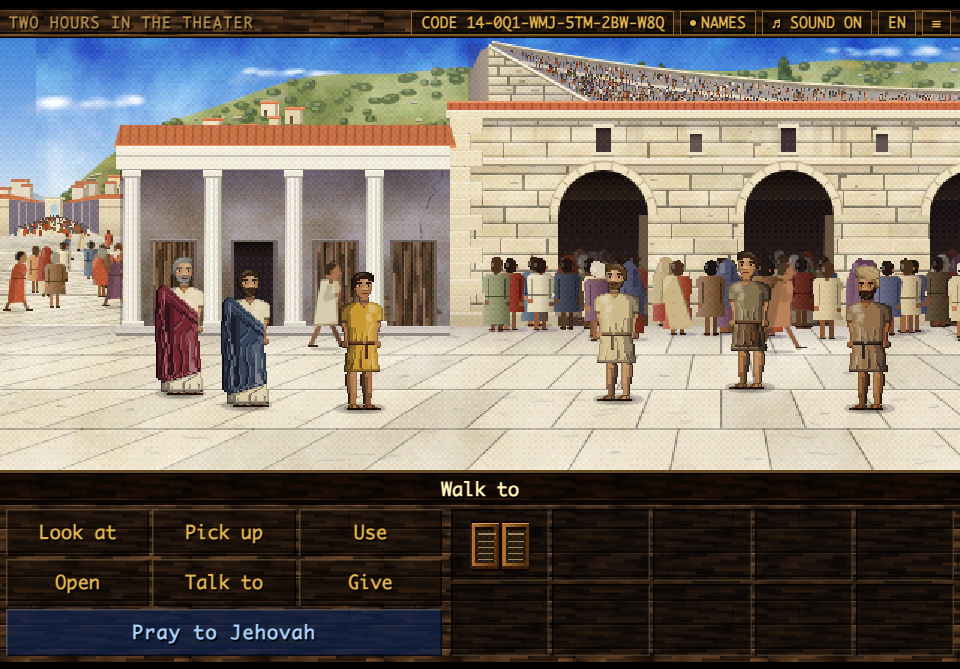
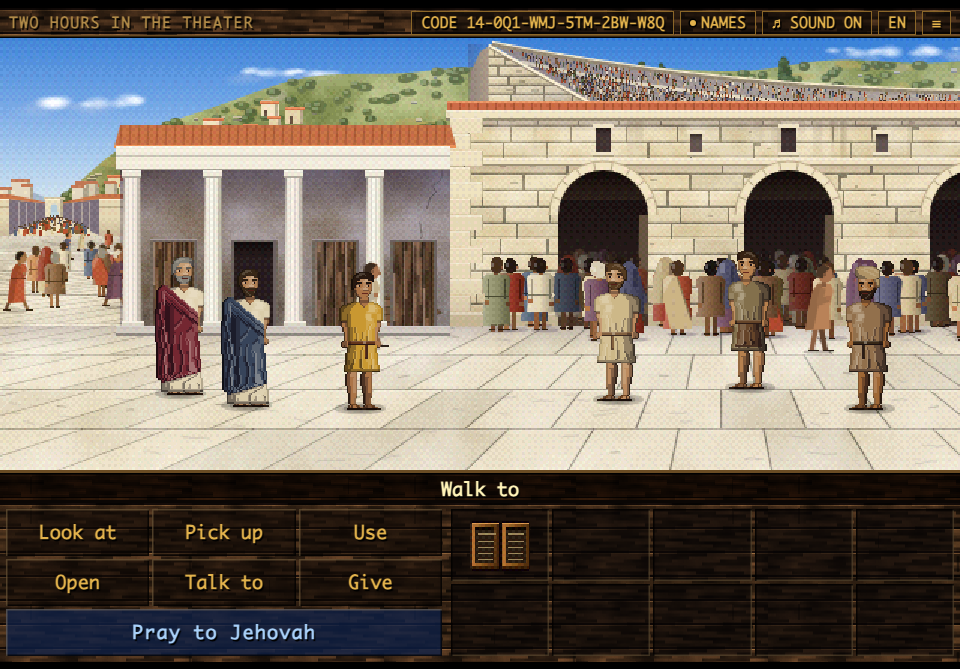
Chapter Fourteen: Aristokles's hand refined, colonnade hill mottle clipped, farewell disciple reply

diff --git a/levels/chapter14.js b/levels/chapter14.js
@@ -516,9 +516,11 @@ function blobColon(g,x,y,rx,ry,c){if(Math.min(rx,ry)<1.1&&Math.max(rx,ry)<2.4)R(
 function hillColon(g,r){const HZ=HZColon,yP=x=>x<14?HZ:9+49*Math.exp(-(x-14)/44)+1.8*Math.sin(x/31+1)+.9*Math.sin(x/9.3)+(x>300?.012*(x-300):0);
   ridge(g,0,90,HZ,x=>6+2*Math.sin(x/11+1)+1.4*Math.sin(x/4.3),['#94a8be','#acbac4']);
   ridge(g,0,90,HZ,x=>2.6+.8*Math.sin(x/6+2),['#a2b2be','#b6c0c4']);
-  ridge(g,12,480,HZ,x=>HZ-yP(x),['#9aa478','#86905e','#8a8a5c']);tex(g,'mott',.45,12,0,468,HZ,'overlay',1);
+  /* the hill's own outline: its mottle and its patches stay inside it, and never reach the sky */
+  const hill=()=>{g.beginPath();g.moveTo(12,HZ);for(let x=12;x<=480;x+=2)g.lineTo(x,yP(x));g.lineTo(480,HZ);g.closePath()};
+  ridge(g,12,480,HZ,x=>HZ-yP(x),['#9aa478','#86905e','#8a8a5c']);clipTo(g,hill,()=>tex(g,'mott',.45,12,0,468,HZ,'overlay',1));
   /* patches of dry grass and bare rock between the scrub */
-  clipTo(g,()=>{g.beginPath();g.moveTo(12,HZ);for(let x=12;x<=480;x+=2)g.lineTo(x,yP(x));g.lineTo(480,HZ);g.closePath()},()=>{for(let i=0;i<46;i++){const x=14+r()*466,y=yP(x)+1+r()*22;oval(g,x,y,2.4+r()*6,.8+r()*1.8,r()<.6?'rgba(184,164,106,.4)':'rgba(170,168,156,.42)')}});
+  clipTo(g,hill,()=>{for(let i=0;i<46;i++){const x=14+r()*466,y=yP(x)+1+r()*22;oval(g,x,y,2.4+r()*6,.8+r()*1.8,r()<.6?'rgba(184,164,106,.4)':'rgba(170,168,156,.42)')}});
   /* scrub in clumps and grey rock, lit from the left; the higher, the hazier */
   for(let i=0;i<520;i++){const x=12+r()*468,y0=yP(x);if(y0>HZ-2)continue;const y=y0+.6+Math.pow(r(),1.4)*Math.min(30,HZ-y0-2),hz=clamp((y-4)/30,0,1);
     if(r()<.2){const w=1+r()*2.6;R(g,x,y,w,.6+r()*.6,mix('#c2b898','#b4b8b8',1-hz));R(g,x,y+.6,w,.5,mix('#6e6a56','#8a90a0',1-hz))}
@@ -1018,119 +1020,162 @@ function claySeal(g,kx,ky,sealed){const C='#94654e',r=rng(1411),blob=(cx,cy,rx,r
   if(!sealed){oval(g,kx-2,cy-1.6,2.4,1.1,tint(C,.4));R(g,kx-3,cy-2.2,1,.5,tint(C,.6));return}
   for(const[sx,sy,m]of[[kx-5.6,cy-2.2,0],[kx+1,cy-1.8,1]]){R(g,sx,sy+3.5,4,.5,tint(C,.24));R(g,sx,sy,4,3.5,tint(C,-.1));R(g,sx,sy,4,.5,tint(C,.3));R(g,sx,sy+.5,.5,3,tint(C,-.42));
     if(m)R(g,sx+1.5,sy+1.5,1,1,tint(C,-.36));else stroke(g,[sx+1.2,sy+2.8,sx+2.8,sy+1.2],tint(C,-.4),.5)}}
-/* handSeal: Aristokles's left hand, the back of it up, lying over the stone beside the tablet, the size a hand is beside it: it reaches in
-   from the front, out of the fold of his mantle, which is wrapped round his forearm, and the fingers point away from us. The fingers are
-   long and spread a little, the middle the longest, the fourth and the index finger a little shorter and the little finger the shortest,
-   so that their tips make an arc. Each finger is three bones long: it tapers from its knuckle, swells a little at each of its two
-   joints and narrows between them, and ends in a rounded pad. Its nail lies on top of the last bone, longer than it is wide, with a fold
-   of skin at its root, a pale free edge at the tip and the light along its left side. Over the middle joint the skin gathers in a few
-   short, soft wrinkles that bow towards the tip, fewer over the last joint; they stop short of the finger's edges, so that no line is
-   drawn across a finger, and the joints and the tips are a little redder than the rest. On the back of the hand the four knuckles stand
-   up, with a hollow between each two, and the tendons run from the wrist to them as low ridges. The thumb grows from the side of the
-   hand low down, near the wrist, about half as thick again as a finger, and runs out straight, about thirty degrees farther out than
-   the index finger, with a deep web between them that reaches down to the middle of the back of the hand; its tip comes about as far
-   as the index finger's knuckle. It lies turned on its side, as a thumb does beside a hand laid flat, so that its nail faces outward
-   and is seen at three quarters on its outer side at the tip, never on top as the fingers' nails are. On the fourth finger is his signet ring: a gold bezel a little wider than the finger, and set in it his
-   stone, a dark red carnelian about as large as the seal it leaves in the clay, with the slanting mark of that seal cut into it. The
-   hand and its fingers are one shape: nothing marks where a finger begins. The light comes from the left: the left side of each finger
-   is lit and its right side in shade, and the thumb's side of the hand and the wrist, by the mantle, are in shade; the hand throws a
-   soft shadow on the stone to the right. The hand is drawn in units of its own, about seven to a screen pixel, with the fingers
-   pointing up and the thumb to the right, and turned and scaled onto the screen by HANDSeal. */
-/* HANDSeal: where the hand is drawn: the screen point of the middle of its wrist (265, 430 in its units), the angle it is turned by,
-   the size of one of its units, and how much the slant of the view shortens what runs away from us */
-const HANDSeal=[287,119,-.73,.135,.8];
-function handSeal(g){const S='#c8966e',Lt=tint(S,.2),Hi=tint(S,.34),Dk=tint(S,-.24),Rd='#b4604a',Cr='#7c4434',N='#d0a08a',M='#7a2a3a',[px,py,A,Z,K]=HANDSeal;
-  g.save();g.translate(px,py);g.scale(1,K);g.rotate(A);g.scale(Z,Z);g.translate(-265,-430);
-  const nz=(x,y)=>{const l=Math.hypot(x,y);return[x/l,y/l]},turn=(d,a)=>[d[0]*Math.cos(a)-d[1]*Math.sin(a),d[0]*Math.sin(a)+d[1]*Math.cos(a)];
-  const eo=(x,y,rx,ry,rot,c)=>{g.beginPath();g.ellipse(x,y,rx,ry,rot,0,6.2832);g.fillStyle=c;g.fill()},bump=(k,c,s)=>Math.exp(-(((k-c)/s)**2));
-  /* a finger from its knuckle K, len long (a degrees from straight up) and w wide: its first bone runs straight (hid of it under the back
-     of the hand), the two outer ones bent by b at the middle joint kJ; kD is the last joint. at(k,s): the point k of the way along it,
-     s across it (to its right) */
-  const geo=(K,a,len,w,b,hid,tw)=>{tw=tw||.82;const d1=[Math.sin(a*Math.PI/180),-Math.cos(a*Math.PI/180)],d2=turn(d1,b),l1=hid+len*.5,L=l1+len*.5,kJ=l1/L,kD=kJ+(1-kJ)*.55,
-      B=[K[0]-d1[0]*hid,K[1]-d1[1]*hid],J=[B[0]+d1[0]*l1,B[1]+d1[1]*l1],n1=[-d1[1],d1[0]],n2=[-d2[1],d2[0]],
-      wd=k=>w*(1-(1-tw)*Math.min(1,k/.9))*(1+.07*bump(k,kJ,.045)+.05*bump(k,kD,.035)-.03*bump(k,(kJ+kD)/2,.05)+.03*bump(k,.95,.04)),
-      at=(k,s)=>{const t=clamp((k-kJ+.08)/.16,0,1),n=nz(n1[0]+(n2[0]-n1[0])*t,n1[1]+(n2[1]-n1[1])*t),p=k<kJ?[B[0]+d1[0]*k*L,B[1]+d1[1]*k*L]:[J[0]+d2[0]*(k-kJ)*L,J[1]+d2[1]*(k-kJ)*L];
-        return[p[0]+n[0]*s,p[1]+n[1]*s]};
-    return{K,L,kJ,kD,k0:hid/L,w,wd,at,e:wd(1)/2,ang:Math.atan2(d2[1],d2[0]),ang1:Math.atan2(d1[1],d1[0])}};
-  const outline=f=>{const{at,wd,L,e}=f,k1=1-e/L;g.moveTo(...at(0,wd(0)/2));for(let k=.03;k<k1;k+=.03)g.lineTo(...at(k,wd(k)/2));
-    g.lineTo(...at(k1,e));g.quadraticCurveTo(...at(1,e),...at(1,0));g.quadraticCurveTo(...at(1,-e),...at(k1,-e));for(let k=k1;k>0;k-=.03)g.lineTo(...at(k,-wd(k)/2));g.lineTo(...at(0,-wd(0)/2));g.closePath()};
-  /* a band along a finger, from k0 to k1, between the fractions a and b of its width, shaded along its length */
-  const band=(f,k0,k1,a,b,st)=>{const p=[],q=[];for(let k=k0;k<k1+.001;k+=Math.min(.03,k1-k0))p.push(...f.at(k,a*f.wd(k))),q.unshift(...f.at(k,b*f.wd(k)));
-    if(p.length<4)return;for(let i=0;i<q.length;i+=2)p.push(q[i],q[i+1]);poly(g,p);g.fillStyle=lg(g,...f.at(k0,0),...f.at(k1,0),st);g.fill()};
-  /* a rounded box in a frame of its own: centre (x, y), turned by a, l along and h across, its ends rounded by ra (back) and rb (front) */
-  const box=(x,y,a,l,h,ra,rb)=>{g.save();g.translate(x,y);g.rotate(a);const u=l/2,v=h/2;g.beginPath();g.moveTo(-u+ra,-v);g.lineTo(u-rb,-v);g.quadraticCurveTo(u,-v,u,-v+rb);
-    g.lineTo(u,v-rb);g.quadraticCurveTo(u,v,u-rb,v);g.lineTo(-u+ra,v);g.quadraticCurveTo(-u,v,-u,v-ra);g.lineTo(-u,-v+ra);g.quadraticCurveTo(-u,-v,-u+ra,-v);g.closePath();g.restore()};
-  /* the nail on the last bone: the fold of skin at its root, the nail, the shade on its right side, the light on its left, its free edge;
-     off puts it at that fraction of the width to the right, turned away and in the shade of that side, as the thumb's is */
-  const nail=(f,fl,fw,off)=>{const w=f.wd(f.kD+.02),l=w*(fl||.78),h=w*(fw||.6),o=off==null?-.03:off,kc=1-(f.e*(off==null?.32:.45)+l/2)/f.L,[x,y]=f.at(kc,w*o),a=f.ang;
-    const[cx,cy]=f.at(kc-l*.55/f.L,w*o);eo(cx,cy,h*.62,l*.16,a+Math.PI/2,rgba(Rd,.3));
-    box(x,y,a,l,h,h*.42,h*.5);g.fillStyle=off==null?N:mix(N,Dk,.25);g.fill();if(off!=null)return;
-    clipTo(g,()=>box(x,y,a,l,h,h*.42,h*.5),()=>{g.save();g.translate(x,y);g.rotate(a);
-      R(g,-l/2,h*.16,l,h*.4,rgba(tint(N,-.26),.6));R(g,-l/2,-h/2,l,h*.24,rgba('#ecd6ca',.5));R(g,l*.3,-h/2,l*.3,h,rgba('#e8d0c0',.3));
-      R(g,-l/2,-h/2,l*.18,h,rgba(Rd,.25));g.restore()})};
-  /* the soft wrinkles over a joint: n short arcs bowing towards the tip, span of the finger's width, a little left of its middle */
-  const wrinkles=(f,k,n,span,a)=>{for(let i=0;i<n;i++){const kk=k+(i-(n-1)/2)*7.5/f.L,w=f.wd(kk)*span*(i===(n-1)/2|0?1:.8),p=[];
-    for(let t=-1;t<=1.001;t+=.25)p.push(...f.at(kk+(1-t*t)*3.5/f.L,t*w/2-f.wd(kk)*.05));stroke(g,p,rgba(Cr,a),2.6)}};
-  /* the fingers: little, fourth, middle and index, each from its knuckle; and the thumb */
-  const FG=[geo([291,228],16,197,42,.06,24),geo([350,212],26,241,47,.05,24),geo([408,214],33,258,49,.05,24),geo([460,240],41,232,48,.07,24)],
-    TH=geo([447,405],72,158,66,0,44,.82);
-  /* the back of the hand, from the wrist (under the mantle) to the knuckles and the web of the thumb; it runs round the same way as the
-     fingers, so that where they overlap they add up and never cancel */
-  const back=()=>{g.moveTo(330,540);g.lineTo(340,486);g.quadraticCurveTo(400,490,448,444);g.lineTo(440,400);g.lineTo(437,378);g.quadraticCurveTo(452,320,484,256);
-    g.lineTo(462,228);g.lineTo(410,208);g.lineTo(352,202);g.lineTo(300,214);g.lineTo(268,232);g.quadraticCurveTo(240,320,236,420);g.lineTo(230,520);g.closePath()};
-  /* the webs of skin between neighbouring fingers, which reach about a third of the way up the shorter one: each is drawn the same way
-     round as the fingers, so that it adds to them */
-  const sgn=p=>{let a=0;for(let i=0;i<p.length;i+=2){const j=(i+2)%p.length;a+=p[i]*p[j+1]-p[j]*p[i+1]}return a},ref=sgn((()=>{const f=FG[0],p=[];for(const k of[0,.5,1])p.push(...f.at(k,f.wd(k)/2));for(const k of[1,.5,0])p.push(...f.at(k,-f.wd(k)/2));return p})());
-  const webs=FG.slice(0,3).map((a,i)=>{const b=FG[i+1],ka=(24+Math.min(a.L,b.L)*.26)/a.L,kb=(24+Math.min(a.L,b.L)*.26)/b.L,p1=a.at(ka,a.wd(ka)/2),p2=b.at(kb,-b.wd(kb)/2),
-      m=[(p1[0]+p2[0])/2,(p1[1]+p2[1])/2],lo=[(a.K[0]+b.K[0])/2,(a.K[1]+b.K[1])/2],c=[m[0]+(lo[0]-m[0])*.45,m[1]+(lo[1]-m[1])*.45],pts=[...a.at(.02,a.wd(0)/2),...p1];
-    for(let t=.25;t<1;t+=.25){const u=1-t;pts.push(u*u*p1[0]+2*u*t*c[0]+t*t*p2[0],u*u*p1[1]+2*u*t*c[1]+t*t*p2[1])}pts.push(...p2,...b.at(.02,-b.wd(0)/2),...lo);
-    if(Math.sign(sgn(pts))!==Math.sign(ref)){const r=[];for(let j=pts.length-2;j>=0;j-=2)r.push(pts[j],pts[j+1]);return r}return pts});
-  const hand=()=>{g.beginPath();back();outline(TH);for(const f of FG)outline(f);for(const w of webs){g.moveTo(w[0],w[1]);for(let j=2;j<w.length;j+=2)g.lineTo(w[j],w[j+1]);g.closePath()}};
-  /* the shadow of the hand on the stone, falling to the right: close and darker under its edge, softer farther out */
-  for(const[d,a]of[[3.4,.07],[2.2,.12],[1.2,.16]])comp(g,'multiply',1,()=>{const sx=d*.7,sy=d*.25/K;g.save();g.translate((sx*Math.cos(A)+sy*Math.sin(A))/Z,(sy*Math.cos(A)-sx*Math.sin(A))/Z);hand();g.fillStyle=rgba('#56526e',a);g.fill();g.restore()});
-  hand();g.fillStyle=S;g.fill();
-  clipTo(g,hand,()=>{
-    /* the light from the left; the thumb's side and the wrist by the mantle in shade */
-    g.fillStyle=lg(g,200,0,580,0,[rgba(Lt,.6),rgba(Lt,0),rgba(Dk,0),rgba(Dk,.5)]);g.fillRect(150,0,450,560);
-    g.fillStyle=lg(g,0,380,0,480,[rgba(Dk,0),rgba(Dk,.6)]);g.fillRect(150,380,450,160);
-    g.fillStyle=rg(g,330,300,90,[rgba(Lt,.5),rgba(Lt,0)]);g.fillRect(150,150,450,300);
-    /* the skin: a faint mottle, warmer towards the knuckles */
-    tex(g,'mott',.3,150,0,450,560,'overlay',3.3);
-    g.fillStyle=rg(g,380,250,150,[rgba(Rd,.16),rgba(Rd,0)]);g.fillRect(150,100,450,300);
-    /* the tendons, from the wrist to the knuckles: a low ridge, lit on its left, with the groove beside it in shade */
-    for(const f of FG){const[x,y]=f.K,w0=[268+(x-375)*.3,440],m=[(x+w0[0])/2+10,(y+w0[1])/2+6],k=[x+2,y+14];
-      stroke(g,[w0[0]+7,w0[1],m[0]+9,m[1],k[0]+9,k[1]],rgba(Dk,.07),8);stroke(g,[...w0,...m,...k],rgba(Hi,.11),8)}
-    /* the knuckles of the hand, each a little red, with a hollow between each two */
-    for(let i=0;i<3;i++){const a=FG[i].K,b=FG[i+1].K;eo((a[0]+b[0])/2,(a[1]+b[1])/2+16,10,16,0,rgba(Dk,.08))}
-    for(const f of FG){const[x,y]=f.at(f.k0-.02,-f.w*.05);eo(x,y,f.w*.46,f.w*.34,f.ang1,rgba(Rd,.09));eo(x-2,y,f.w*.3,f.w*.22,f.ang1,rgba(Hi,.18))}
-    /* each finger: the shade along its right side, deepening from the knuckle; the light along its left side; the swell of each joint,
-       lit, its wrinkles, and a little red; the tip a little redder and darker; the nail */
-    for(const f of FG){band(f,.1,1.05,.58,.22,[rgba(Dk,0),rgba(Dk,.15),rgba(Dk,.8),rgba(Dk,.85)]);
-      band(f,.12,.92,-.04,-.34,[rgba(Lt,0),rgba(Lt,.3),rgba(Lt,.8),rgba(Lt,.2)]);
-      band(f,.3,1.05,-.4,-.58,[rgba(Dk,0),rgba(Dk,.3)]);
-      for(const[k,s,r,n,sp,al]of[[f.kJ,.32,.38,3,.56,.34],[f.kD,.24,.28,2,.46,.24]]){const[jx,jy]=f.at(k-.02,-.1*f.w);eo(jx,jy,f.w*s,f.w*r,f.ang,rgba(Rd,.16));
-        eo(jx-2,jy,f.w*s*.62,f.w*r*.6,f.ang,rgba(Hi,.3));wrinkles(f,k,n,sp,al)}
-      band(f,.88,1.06,.6,-.6,[rgba(Rd,0),rgba(Rd,.24)]);band(f,.9,1.06,.6,-.6,[rgba(Dk,0),rgba(Dk,.2)]);nail(f)}
-    /* the thumb: lit along its top, in shade on its underside; its joint; its nail, turned away from us with the thumb, seen at three
-       quarters on its outer side at the tip */
-    band(TH,.05,1.05,.58,.2,[rgba(Dk,.2),rgba(Dk,.75),rgba(Dk,.75)]);band(TH,.2,.9,-.1,-.36,[rgba(Lt,0),rgba(Lt,.85),rgba(Lt,.85),rgba(Lt,0)]);
-    band(TH,.4,1.05,-.42,-.58,[rgba(Dk,0),rgba(Dk,.35)]);band(TH,.86,1.06,.6,-.6,[rgba(Rd,0),rgba(Rd,.24)]);
-    {const[jx,jy]=TH.at(TH.kJ+.04,-.1*TH.w);eo(jx,jy,TH.w*.3,TH.w*.34,TH.ang,rgba(Rd,.14));wrinkles(TH,TH.kJ+.05,2,.42,.22)}nail(TH,.72,.42,.2)});
-  /* the signet ring on the fourth finger, low on its first bone: its gold bezel a little wider than the finger, lying flat on top, and
-     the carnelian set in it with the slanting mark of Aristokles's seal cut into it */
-  {const f=FG[1],kr=f.k0+.5*(f.kJ-f.k0),[x,y]=f.at(kr,0),a=f.ang1,w=f.wd(kr)*1.16,l=40;
-    comp(g,'multiply',1,()=>{box(x+3,y+3,a,l+2,w+2,10,10);g.fillStyle=rgba(Dk,.6);g.fill()});
-    box(x,y,a,l,w,10,10);g.save();g.translate(x,y);g.rotate(a);g.fillStyle=lg(g,0,-w/2,0,w/2,['#f0d070','#cc9c34','#9a6c1a','#523408']);g.fill();g.restore();
-    g.save();g.translate(x,y);g.rotate(a);const sl=l-20,sh=w-24;
-    R(g,-sl/2-2,-sh/2-2,sl+4,sh+4,'#6a4a18');R(g,-sl/2,-sh/2,sl,sh,'#8a2e1e');R(g,-sl/2,-sh/2,sl,4,'#c4644a');R(g,-sl/2,-sh/2,4,sh,'#b0503a');
-    R(g,-sl/2,sh/2-4,sl,4,'#5a1a12');R(g,sl/2-4,-sh/2,4,sh,'#6a2016');R(g,-sl/2+4,-sh/2+4,6,5,'#eaa48a');
-    stroke(g,[-sl*.24,sh*.26,sl*.24,-sh*.26],'#4e140c',4);stroke(g,[-sl*.24+2,sh*.26+3,sl*.24+2,-sh*.26+3],'#b4553e',2);g.restore()}
-  /* the mantle, wrapped round the forearm: its hem round the wrist, and the folds running back along the arm */
-  const hem=[176,412,204,424,226,430,250,446,276,452,300,468,326,474,352,492,372,500],fw=[-.4,1],sl=[...hem,372-160,500+400,176-160,412+400];
-  poly(g,sl,M);
-  clipTo(g,()=>poly(g,sl),()=>{g.fillStyle=lg(g,176,412,372,500,[tint(M,.2),tint(M,.1),M,tint(M,-.3)]);g.fillRect(0,380,420,560);
-    for(const[t,c]of[[.12,tint(M,-.38)],[.3,tint(M,.3)],[.5,tint(M,-.3)],[.68,tint(M,.14)],[.86,tint(M,-.42)]]){const x=176+196*t+6,y=412+88*t+10;stroke(g,[x,y,x+fw[0]*120+8,y+fw[1]*120,x+fw[0]*300,y+fw[1]*300],rgba(c,.6),9)}});
-  stroke(g,hem,tint(M,.42),4);g.restore()}
+/* handSeal: Aristokles's left hand, the back of it up, lying on the stone beside the tablet, the size a hand is beside it: it reaches in
+   from the front-right, out of the fold of his mantle, which is draped round his forearm, and the fingers point away from us. The silhouette,
+   finger angles, narrow spacing (ring and middle close together, little and index softly apart), knuckle slope, dorsal tendons, deep curved
+   thumb web, and 3/4-turned thumbnail follow the maintainer's reference. Each finger tapers naturally from its knuckle through its two joints
+   to a rounded pad, with an almond nail, soft cuticle fold, pale free edge and delicate joint wrinkles that stop short of the edges. On the
+   fourth finger's first bone is his gold signet ring, curved round the finger with a cushion bezel and a dark red carnelian stone cut with
+   the slanting mark of his seal. Light comes from the front-left: left edges and the central dorsum catch warm light, right edges and the
+   interdigital hollows fall into shade, and the hand casts a soft shadow to the right on the marble. Drawn in the 800x534 reference frame
+   and turned and scaled onto the stone by HANDSeal. */
+/* HANDSeal: screen point of the wrist centre (238, 434 in reference units), rotation angle, scale, and vertical foreshortening */
+const HANDSeal=[293,119,-.84,.15,.88];
+function handSeal(g){const S='#d4a37c',Lt='#ebc6a4',Hi='#f7dec6',Dk='#8e573d',Sh='#623828',Rd='#c47058',Cr='#8c4e3c',N='#e3bda6',M='#7a2a3a',[px,py,A,Z,K]=HANDSeal;
+  g.save();g.translate(px,py);g.scale(1,K);g.rotate(A);g.scale(Z,Z);g.translate(-238,-434);
+  const eo=(x,y,rx,ry,rot,c)=>{g.beginPath();g.ellipse(x,y,rx,ry,rot,0,6.2832);g.fillStyle=c;g.fill()};
+  /* soft radial elliptical glow/shade (no hard ellipse edges on smooth skin planes) */
+  const soft=(x,y,rx,ry,rot,c,a)=>{g.save();g.translate(x,y);g.rotate(rot);g.scale(1,ry/rx);
+    g.fillStyle=rg(g,0,0,rx,[rgba(c,a),rgba(c,a*.45),rgba(c,0)]);g.beginPath();g.arc(0,0,rx,0,6.2832);g.fill();g.restore()};
+  /* smooth Catmull-Rom spline through flat [x,y,...] points */
+  const spline=(p,closed)=>{const n=p.length/2,P=i=>{i=closed?(i%n+n)%n:clamp(i,0,n-1);return[p[2*i],p[2*i+1]]};
+    g.beginPath();g.moveTo(p[0],p[1]);
+    for(let i=0;i<(closed?n:n-1);i++){const a=P(i-1),b=P(i),c=P(i+1),d=P(i+2);
+      g.bezierCurveTo(b[0]+(c[0]-a[0])/6,b[1]+(c[1]-a[1])/6,c[0]-(d[0]-b[0])/6,c[1]-(d[1]-b[1])/6,c[0],c[1])}
+    if(closed)g.closePath()};
+  const sline=(p,c,w)=>{spline(p,0);g.strokeStyle=c;g.lineWidth=w;g.lineCap='round';g.lineJoin='round';g.stroke()};
+  /* continuous outer silhouette of the left hand and wrist from the reference (clockwise from lower-left forearm) */
+  const OUT=[76,534,120,480,164,424,190,386,192,344,204,304,224,266,248,230,266,204,
+    284,174,301,146,320,118,338,96,351,86,363,89,368,102,356,126,338,152,320,182,307,208,
+    308,214,319,204,341,178,366,148,392,118,420,89,442,68,460,66,472,76,465,92,448,116,426,144,400,176,375,204,
+    372,210,383,204,408,174,434,140,458,108,485,76,500,65,514,70,517,85,502,110,480,144,456,180,430,216,
+    417,236,427,234,454,208,480,178,506,148,533,127,546,122,557,130,556,145,539,170,514,202,486,234,460,266,444,292,
+    436,326,436,355,443,367,456,365,482,345,514,326,545,315,563,318,570,329,560,346,538,365,508,385,476,408,
+    442,436,400,458,356,469,320,472,294,490,264,516,240,536];
+  /* finger axis helper along [K, PIP, DIP, Tip]: at(t,s) gives the point at fraction t (0..1) and offset s to its right,
+     with unit tangent and local width for cylindrical shading, joints, wrinkles and nails */
+  const mkF=(pts,w,nail,tend)=>{const seg=[];let tot=0;
+    for(let i=0;i<pts.length-1;i++){const dx=pts[i+1][0]-pts[i][0],dy=pts[i+1][1]-pts[i][1],l=Math.hypot(dx,dy);seg.push({a:pts[i],b:pts[i+1],dx:dx/l,dy:dy/l,l,t0:tot});tot+=l}
+    const at=(t,s)=>{const d=clamp(t,0,1)*tot;let q=seg[seg.length-1];for(const e of seg)if(d<=e.t0+e.l){q=e;break}
+      const u=(d-q.t0)/q.l,x=q.a[0]+(q.b[0]-q.a[0])*u,y=q.a[1]+(q.b[1]-q.a[1])*u,nx=-q.dy,ny=q.dx;return[x+nx*(s||0),y+ny*(s||0)]};
+    const wd=t=>w*(1-.2*clamp(t,0,1)),ang=t=>{const d=clamp(t,0,1)*tot;let q=seg[seg.length-1];for(const e of seg)if(d<=e.t0+e.l){q=e;break}return Math.atan2(q.dy,q.dx)};
+    return{pts,K:pts[0],PIP:pts[1],DIP:pts[2],Tip:pts[3],w,wd,at,ang,tP:seg[0].l/tot,tD:(seg[0].l+seg[1].l)/tot,nail,tend}};
+  const FG=[
+    mkF([[282,224],[318,158],[340,124],[358,96]],34,[350,102,10,7.5,-.92],[218,372,250,304,280,234]),
+    mkF([[332,220],[388,150],[426,110],[458,76]],38,[451,83,11.5,8.6,-.84],[238,384,286,308,330,228]),
+    mkF([[378,240],[442,158],[476,114],[505,77]],40,[498,84,12,9.2,-.90],[260,394,320,318,374,246]),
+    mkF([[424,268],[486,198],[518,162],[548,134]],39,[540,141,11.5,8.6,-.84],[282,400,352,334,420,272])],
+    TH=mkF([[426,396],[486,368],[528,344],[564,326]],46,null,null);
+  /* shaded longitudinal band along a finger between fractional widths a and b */
+  const band=(f,t0,t1,a,b,st)=>{const p=[],q=[];for(let i=0;i<=14;i++){const t=t0+(t1-t0)*i/14,w=f.wd(t);p.push(...f.at(t,a*w));q.unshift(...f.at(t,b*w))}
+    for(let i=0;i<q.length;i+=2)p.push(q[i],q[i+1]);poly(g,p);g.fillStyle=lg(g,...f.at(t0,0),...f.at(t1,0),st);g.fill()};
+  /* delicate curved skin wrinkles over a joint, stopping well inside the finger edges */
+  const wrinkles=(f,tc,n,span,al)=>{for(let i=0;i<n;i++){const tt=tc+(i-(n-1)/2)*.038,hw=f.wd(tt)*span*(i===(n-1)/2|0?.48:.36),p=[];
+    for(let s=-1;s<=1.001;s+=.25)p.push(...f.at(tt+(1-s*s)*.015,s*hw-f.wd(tt)*.03));sline(p,rgba(Cr,al),2)}};
+  /* almond fingernail set neatly inside the fingertip pad: soft rosy cuticle fold, warm translucent nail plate, gentle pale edge */
+  const nail=([cx,cy,rx,ry,rot])=>{g.save();g.translate(cx,cy);g.rotate(rot);
+    eo(-rx*.32,0,rx*.74,ry*1.08,0,rgba(Rd,.24));
+    g.beginPath();g.ellipse(0,0,rx,ry,0,0,6.2832);g.fillStyle=N;g.fill();
+    clipTo(g,()=>{g.beginPath();g.ellipse(0,0,rx,ry,0,0,6.2832)},()=>{
+      g.fillStyle=lg(g,0,-ry,0,ry,['#f2d8c6',N,tint(N,-.2)]);g.fillRect(-rx,-ry,rx*2,ry*2);
+      eo(rx*.58,0,rx*.46,ry*.9,0,rgba('#f6e4d2',.32));
+      eo(-rx*.66,0,rx*.44,ry*.82,0,rgba(Rd,.2))});
+    g.beginPath();g.ellipse(0,0,rx,ry,0,Math.PI*.45,Math.PI*1.55);g.strokeStyle=rgba(Cr,.26);g.lineWidth=1.4;g.stroke();g.restore()};
+  const handPath=()=>spline(OUT,1);
+  /* soft shadow cast onto the marble to the right, plus a gentle contact occlusion under the edges */
+  comp(g,'multiply',1,()=>{g.save();g.translate(2,4);handPath();g.fillStyle=rgba('#4e4860',.13);g.fill();g.restore()});
+  for(const[d,a]of[[3.6,.07],[2.2,.11],[1.1,.16],[.45,.14]])comp(g,'multiply',1,()=>{
+    const sx=d*.72,sy=d*.34/K;g.save();g.translate((sx*Math.cos(A)+sy*Math.sin(A))/Z,(sy*Math.cos(A)-sx*Math.sin(A))/Z);
+    handPath();g.fillStyle=rgba('#504c68',a);g.fill();g.restore()});
+  handPath();g.fillStyle=S;g.fill();
+  clipTo(g,handPath,()=>{
+    /* main warm front-left light across the hand, with soft warm-umber shading along the far ulnar edge, right flank and wrist */
+    g.fillStyle=lg(g,210,150,480,470,[rgba(Lt,.5),rgba(Lt,.14),rgba(Dk,0),rgba(Dk,.38)]);g.fillRect(60,50,540,500);
+    g.fillStyle=lg(g,184,270,316,320,[rgba(Dk,.28),rgba(Dk,0)]);g.fillRect(160,180,200,260);
+    /* broad smooth sunlit central-radial dome on the back of the hand (soft radial gradients, no hard edges) */
+    soft(366,334,116,136,.58,Hi,.46);soft(404,298,82,90,.5,Lt,.36);soft(334,296,74,88,.5,Lt,.26);
+    /* subtle skin mottle and warm rosy flush across the knuckle ridge */
+    tex(g,'mott',.22,60,50,540,500,'overlay',3.2);
+    soft(368,246,142,66,.36,Rd,.22);
+    /* subtle, soft dorsal extensor tendons converging from all four knuckles toward the wrist (feathered two-pass strokes) */
+    for(let i=0;i<4;i++){const t=FG[i].tend,sh=[t[0]+9,t[1]+5,t[2]+10,t[3]+5,t[4]+8,t[5]+4],w0=i===0?12:i===3?13:15,al=i===0?.042:i===3?.054:.058;
+      sline(sh,rgba(Dk,al*.55),w0*1.6);sline(sh,rgba(Dk,al*.65),w0*.85);
+      sline(t,rgba(Hi,al*.55),w0*1.5);sline(t,rgba(Hi,al*.7),w0*.75)}
+    /* soft wrist/ulna modeling and slight hollow beside the index metacarpal; delicate thumb-web crease */
+    sline([184,386,216,356,244,320],rgba(Hi,.11),16);
+    soft(428,342,34,54,.2,Dk,.16);
+    sline([443,367,433,357,427,344],rgba(Cr,.26),2.1);
+    /* knuckles: soft rosy domes lit on the upper-left, with shallow hollows between neighbouring knuckles */
+    for(let i=0;i<3;i++){const a=FG[i].K,b=FG[i+1].K;soft((a[0]+b[0])/2-2,(a[1]+b[1])/2+10,16,22,.45,Dk,.14)}
+    for(const f of FG){const[x,y]=f.K;soft(x,y,26,20,.55,Rd,.18);soft(x-4,y-3,18,14,.55,Hi,.28)}
+    /* soft ambient occlusion in the finger webs */
+    for(const[wx,wy]of[[308,214],[372,210],[417,236]])soft(wx,wy,17,20,.5,Sh,.32);
+    /* each finger: bright warm top-left cylinder, clean right-edge shadow, subtle joint swells & wrinkles, rosy tip, almond nail */
+    for(const f of FG){
+      band(f,.06,1,.22,.64,[rgba(Dk,.12),rgba(Dk,.38),rgba(Dk,.48)]);
+      band(f,.06,.92,-.46,.04,[rgba(Lt,.22),rgba(Hi,.42),rgba(Lt,.22)]);
+      band(f,.14,.98,-.64,-.44,[rgba(Dk,.08),rgba(Dk,.18)]);
+      for(const[tc,rx,ry,n,sp,al]of[[f.tP,22,18,3,.48,.22],[f.tD,18,14,2,.4,.15]]){
+        const[jx,jy]=f.at(tc,-2);soft(jx,jy,rx,ry,f.ang(tc),Rd,.22);soft(jx-3,jy-2,rx*.7,ry*.62,f.ang(tc),Hi,.3);wrinkles(f,tc,n,sp,al)}
+      const[tx,ty]=f.Tip;soft(tx,ty,22,18,f.ang(1),Rd,.2);nail(f.nail)}
+    /* thumb: warm sunlit upper-left shaft, softly shaded lower/thenar edge, IP joint, and 3/4-profile thumbnail on its outer-right edge */
+    band(TH,.05,1,.2,.62,[rgba(Dk,.16),rgba(Dk,.44),rgba(Dk,.48)]);
+    band(TH,.1,.92,-.46,.04,[rgba(Lt,.24),rgba(Hi,.44),rgba(Lt,.22)]);
+    {const[jx,jy]=TH.DIP;soft(jx,jy,22,18,TH.ang(TH.tD),Rd,.18);wrinkles(TH,TH.tD,2,.38,.16)}
+    /* 3/4 thumbnail tucked along the outer-right tip edge, leaving warm sunlit thumb skin along the upper-left edge */
+    {const tn=[548,335,558,325,568,324,568,334,558,345,550,346];
+      sline([547,334,549,343,557,345],rgba(Rd,.34),4);
+      spline(tn,1);g.fillStyle=N;g.fill();
+      clipTo(g,()=>spline(tn,1),()=>{g.fillStyle=lg(g,548,324,568,344,['#f0d4c0',N,tint(N,-.22)]);g.fillRect(544,319,30,32);
+        eo(563,328,7,4.5,-.4,rgba('#f6e6d6',.34))});
+      sline([548,335,550,343,557,345],rgba(Cr,.28),1.4)}
+    /* soft shadow cast onto the wrist where it emerges from the draped mantle */
+    sline([156,412,188,426,222,446,256,464,294,484],rgba(Sh,.34),24);
+    sline([156,412,188,426,222,446,256,464,294,484],rgba(Sh,.26),12)});
+  /* Aristokles's gold signet ring on the fourth finger's proximal phalanx: curved hoop wrapping the cylinder of the finger,
+     oval cushion bezel on top, dark red carnelian intaglio stone cut with the single slanting mark of his seal */
+  {const f=FG[1],tc=f.tP*.56,[rx,ry]=f.at(tc,0),a=f.ang(tc),hw=f.wd(tc)*.53,bl=14,bw=hw*1.02;
+    /* tight contact shadow on the finger skin under/right of the gold hoop */
+    g.save();g.translate(rx,ry);g.rotate(a);
+    comp(g,'multiply',1,()=>{g.beginPath();g.ellipse(-2,4,bl*1.04,bw*1.06,0,0,6.2832);g.fillStyle=rgba(Sh,.44);g.fill()});
+    /* curved gold ring body: narrower where the hoop wraps the finger edges, swelling smoothly into the cushion bezel on top */
+    const hoop=()=>{g.beginPath();g.moveTo(-bl*.64,-bw);g.quadraticCurveTo(0,-bw*1.06,bl*.64,-bw);
+      g.quadraticCurveTo(bl*1.1,-bw*.4,bl*1.1,0);g.quadraticCurveTo(bl*1.1,bw*.4,bl*.64,bw);
+      g.quadraticCurveTo(0,bw*1.06,-bl*.64,bw);g.quadraticCurveTo(-bl*1.1,bw*.4,-bl*1.1,0);
+      g.quadraticCurveTo(-bl*1.1,-bw*.4,-bl*.64,-bw);g.closePath()};
+    hoop();g.fillStyle=lg(g,0,-bw,0,bw,[[0,'#c49430'],[.2,'#ffe894'],[.44,'#d8a638'],[.74,'#885814'],[.92,'#54340a'],[1,'#845a1e']]);g.fill();
+    /* crisp gold bezel rim highlight */
+    g.beginPath();g.ellipse(0,0,bl*.86,bw*.74,0,0,6.2832);g.strokeStyle=rgba('#fff2b8',.58);g.lineWidth=1.8;g.stroke();
+    /* recessed setting and cushion-oval dark red carnelian stone */
+    const sl=bl*.64,sh=bw*.56;
+    g.beginPath();g.ellipse(0,0,sl+2,sh+2,0,0,6.2832);g.fillStyle='#5c3a0e';g.fill();
+    g.beginPath();g.ellipse(0,0,sl,sh,0,0,6.2832);g.fillStyle=lg(g,-sl,-sh,sl,sh,['#c43e28','#8e2214','#52100a']);g.fill();
+    eo(-sl*.32,-sh*.32,sl*.38,sh*.32,-.3,rgba('#f4aa8e',.62));
+    /* single slanting intaglio seal mark matching Aristokles's impression in claySeal (no cross) */
+    sline([-sl*.42,sh*.36,sl*.42,-sh*.36],'#3e0c08',2.8);
+    sline([-sl*.36,sh*.44,sl*.48,-sh*.28],rgba('#d6684a',.65),1.3);
+    g.restore()}
+  /* Aristokles's draped crimson mantle round his forearm, snugly framing the wrist with smooth curved hem and soft wool folds */
+  {const hem=[156,422,184,430,220,448,256,466,288,486,294,496],fd=[-0.64,0.77];
+    const mSmooth=()=>{const sl=[...hem,274,520,294+fd[0]*240,496+fd[1]*240,148+fd[0]*240,426+fd[1]*240,136,448];spline(sl,1)};
+    comp(g,'multiply',.18,()=>{g.save();g.translate(14,10);mSmooth();g.fillStyle='#4a4460';g.fill();g.restore()});
+    mSmooth();g.fillStyle=M;g.fill();
+    clipTo(g,mSmooth,()=>{
+      /* cylindrical light across the wrapped mantle: lit left, deep crimson-plum right */
+      g.fillStyle=lg(g,136,416,300,506,[tint(M,.28),tint(M,.1),M,tint(M,-.38)]);g.fillRect(-40,380,380,320);
+      /* two soft, feathered diagonal wool drapery folds (wide soft halo + deeper crease, never hard stripes) */
+      for(const[p,c,w,al]of[
+        [[186,434,162,486,118,552,66,612],tint(M,-.48),44,.22],
+        [[186,434,162,486,118,552,66,612],tint(M,-.5),22,.24],
+        [[204,444,182,496,142,560,92,620],tint(M,.3),32,.2],
+        [[252,470,224,526,186,586,142,648],tint(M,-.48),48,.24],
+        [[252,470,224,526,186,586,142,648],tint(M,-.52),24,.26],
+        [[270,480,244,536,208,598,166,658],tint(M,.2),28,.16]])sline(p,rgba(c,al),w);
+      tex(g,'mott',.36,-40,380,380,320,'overlay',3.2);
+      /* soft rolled hem catchlight and subtle inner fold shade */
+      sline(hem.slice(0,-2),rgba(tint(M,.32),.44),6);
+      sline(hem.slice(0,-2).map((v,i)=>i%2?v+6:v-4),rgba(tint(M,-.44),.34),4.5)})}
+  g.restore()}
 
 /* ---------- the lane map ---------- */
 /* The city is laid out in its own units, from the city wall (x 0) to the theater's hill (x 768), with the harbor west of the wall
@@ -1518,8 +1563,9 @@ const BYE=[{k:'b1',a:DA,lines:[[DA,'our_door_is_open_to_you'],[P,'today_you_kept
   {k:'b2',a:PH,lines:[[PH,'i_once_asked_you_to_stay_longer'],[P,'he_was_and_now_you_stay']]},
   {k:'b3',a:KL,lines:[[KL,'my_house_is_lighter_than_it_was'],[P,'keep_it_that_way_kleandros']]},
   {k:'b4',a:D1,lines:[[D1,'go_in_peace_paul_we_will_pray'],[P,'and_i_for_you']]}];
-async function bye(b){if(F[b.k])return say(b.a===DA?DA:b.a,b.a===DA?'our_door_is_open_to_you':b.lines[0][1]);
-  for(const[a,l]of b.lines)await say(a,l,{to:a===P?b.a:P});F[b.k]=1;codeBtn()}
+/* who: the one Paul is talking to, where several may say the same farewell (any of the three disciples); Paul answers whoever spoke last */
+async function bye(b,who=b.a){const as=a=>a===b.a?who:a;if(F[b.k])return say(who,b.lines[0][1]);
+  let last=who;for(const[a0,l]of b.lines){const a=as(a0);await say(a,l,{to:a===P?last:P});if(a!==P)last=a}F[b.k]=1;codeBtn()}
 const allBye=()=>BYE.every(b=>F[b.k]);
 async function leaveCourt(){if(!F.plea)return;if(!allBye())return say(P,'not_without_saying_goodbye');
   await fade(1,300);F.left=1;place14('lanes14');enterRoom('lanes14',X(HOUSE[0]),Y(78),1);codeBtn();await fade(0,400);
@@ -1557,7 +1603,7 @@ ROOMS.seal14={space:.6,walk:NOW,mood:'uproar',amb:{roar14:.45,crowd:.4,cry14:.5}
   {name:'aristokles_leaf',x:60,y:62,w:84,h:59,wx:160,wy:236,vis:()=>!F.closed,look:'aristokles_leaf_look',use:layLeaf,useWith:withTablet},
   {name:'philokrates_leaf',x:176,y:62,w:84,h:59,wx:160,wy:236,vis:()=>!F.closed,def:'use',look:()=>say(RUN,F.turned?'philokrates_leaf_now_its_holes':'philokrates_leaf_holes_at_the_other_edge'),use:layLeaf,pickup:turnLeaf,open:turnLeaf,useWith:withTablet},
   {name:'tablet',x:116,y:60,w:88,h:66,wx:160,wy:236,vis:()=>!!F.closed,look:()=>say(RUN,F.sealed?'two_leaves_tied_through_two_seals':F.clayed?'over_the_knot_so_nobody':F.tied?'through_both_holes_and_knotted':'writing_to_writing_holes_together'),useWith:withTablet},
-  {name:'ring',x:262,y:60,w:58,h:63,wx:160,wy:236,vis:()=>!F.sealed,def:'use',look:'aristokles_ring_look',use:ring,talk:ring,useWith:id=>id==='clay14'?say(RUN,'over_the_knot_so_nobody'):false},
+  {name:'ring',x:262,y:56,w:58,h:67,wx:160,wy:236,vis:()=>!F.sealed,def:'use',look:'aristokles_ring_look',use:ring,talk:ring,useWith:id=>id==='clay14'?say(RUN,'over_the_knot_so_nobody'):false},
   {name:'base_of_a_column',x:0,y:127,w:218,h:17,wx:160,wy:236,look:'base_of_a_column_look'},
   {name:'back_to_the_colonnade',x:220,y:124,w:100,h:20,wx:160,wy:236,exit:outSeal,look:'not_till_it_is_sealed'}]};
 ROOMS.door14={space:1.1,floor:'earth',walk:[40,300,112,138],get mood(){return F.plea?'house':'house'},get amb(){return F.plea?{}:{roarfar14:.6,cryfar14:.6}},hs:[
@@ -1579,7 +1625,7 @@ const PAULHS={name:'Paul',actor:P,as:{damon14:{look:()=>say(DA,held()>=3?'paul_o
 PH.hs={name:'Philon',actor:PH,look:'philon_look_farewell',talk:()=>bye(BYE[1]),as:{damon14:{look:'philon_out_of_breath',talk:()=>say(PH,'he_wont_listen_to_me',{to:DA})}}};
 KL.hs={name:'Kleandros',actor:KL,look:'kleandros_look_farewell',talk:()=>bye(BYE[2])};
 DA.hs={name:'damon_and_theano',actor:DA,look:()=>say(P,'damon_look').then(()=>say(P,'theano_look')),talk:()=>bye(BYE[0])};
-for(const d of[D1,D2,D3])d.hs={name:'disciple',actor:d,look:'disciples_from_all_over_the_city',talk:()=>bye(BYE[3])};
+for(const d of[D1,D2,D3])d.hs={name:'disciple',actor:d,look:'disciples_from_all_over_the_city',talk:()=>bye(BYE[3],d)};
 DA.def={look:'nothing_there_needs_our_hands',pickup:'it_is_not_ours',use:'that_is_not_for_us_to_do',open:'that_is_not_ours_to_open',talk:'later_2',give:'what_should_we_give'};
 DA.noCraft='not_those_two_together';
 

diff --git a/tools/playtest-harness.html b/tools/playtest-harness.html
@@ -2671,7 +2671,10 @@
   ok(F.plea&&['v31','v33','v34','v35','v36','v37','v38','v39','v40','v41','w1a'].every(k=>seenTold.has(k)),'the plea is the last word (19:31); then the theater is told while they wait (19:33-41), and the farewell begins (20:1)');
   halt('court14');
   heard.length=0;await onH('passage_under_the_house','walk');ok(said('not_without_saying_goodbye')&&G.room==='court14','he will not go without saying goodbye');
-  for(const a of[DA,PH,KL,A('dz14a')])await talkTo(a);ok(F.b1&&F.b2&&F.b3&&F.b4,'he says goodbye to each');
+  {const s0=window.say,who=[];window.say=(a,t,o)=>{who.push([a,t,o&&o.to]);return s0(a,t,o)};
+  for(const a of[DA,PH,KL,A('dz14c')])await talkTo(a);window.say=s0;ok(F.b1&&F.b2&&F.b3&&F.b4,'he says goodbye to each');
+  ok(who.some(([a,t])=>a===A('dz14c')&&t==='go_in_peace_paul_we_will_pray')&&who.some(([a,t,to])=>a===P&&t==='and_i_for_you'&&to===A('dz14c')),
+    'the disciple at the back whom Paul talks to is the one who answers, and Paul answers him')}
   await onH('passage_under_the_house','walk');await until(()=>G.room==='lanes14'&&!G.busy,6000);
   ok(ART.lanes14.variant()==='quiet'&&PC()===P,'the lanes after the uproar, as Paul');halt('quiet14');
   /* the hidden treasure: the shutter ajar in the blind alley off the harbor road */
